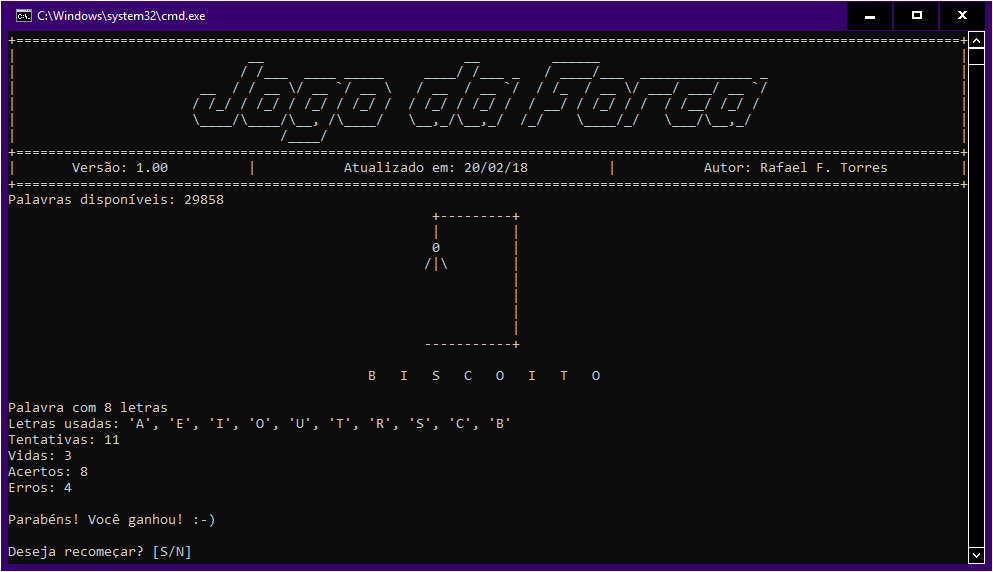
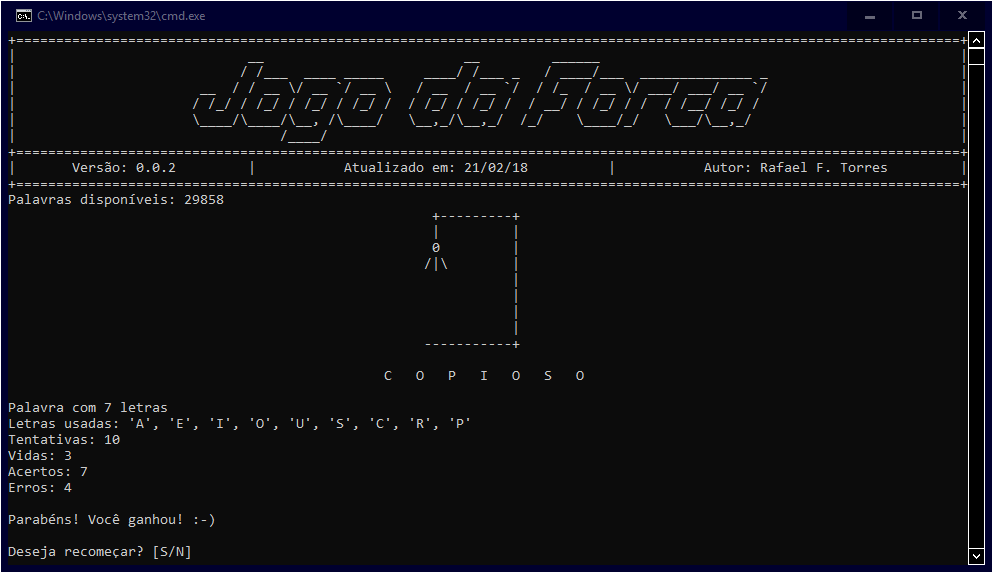
Update

diff --git a/hangman-game.py b/hangman-game.py
@@ -1,9 +1,10 @@
 '''
 Made in Python 3.6.4
-Jogo da forca (Hangman Game)
-Versão: 1.00
-Atualizado em: 20/02/18 (dd/mm/yy)
-Autor: Rafael F. Torres
+Hangman Game (Jogo da Forca)
+Game language: pt-BR
+Version: 0.0.2
+Updated in: 2018-02-21
+Author: Rafael F. Torres
 '''
 
 # Importando módulos
@@ -19,7 +20,7 @@ cabecalho = ('''+===============================================================
 |                      \____/\____/\__, /\____/   \__,_/\__,_/  /_/    \____/_/   \___/\__,_/                          |
 |                                 /____/                                                                               |
 +======================================================================================================================+
-|       Versão: 1.00          |           Atualizado em: 20/02/18          |           Autor: Rafael F. Torres         |
+|       Versão: 0.0.2         |           Atualizado em: 21/02/18          |           Autor: Rafael F. Torres         |
 +======================================================================================================================+''')
 
 # Desenhos da forca
